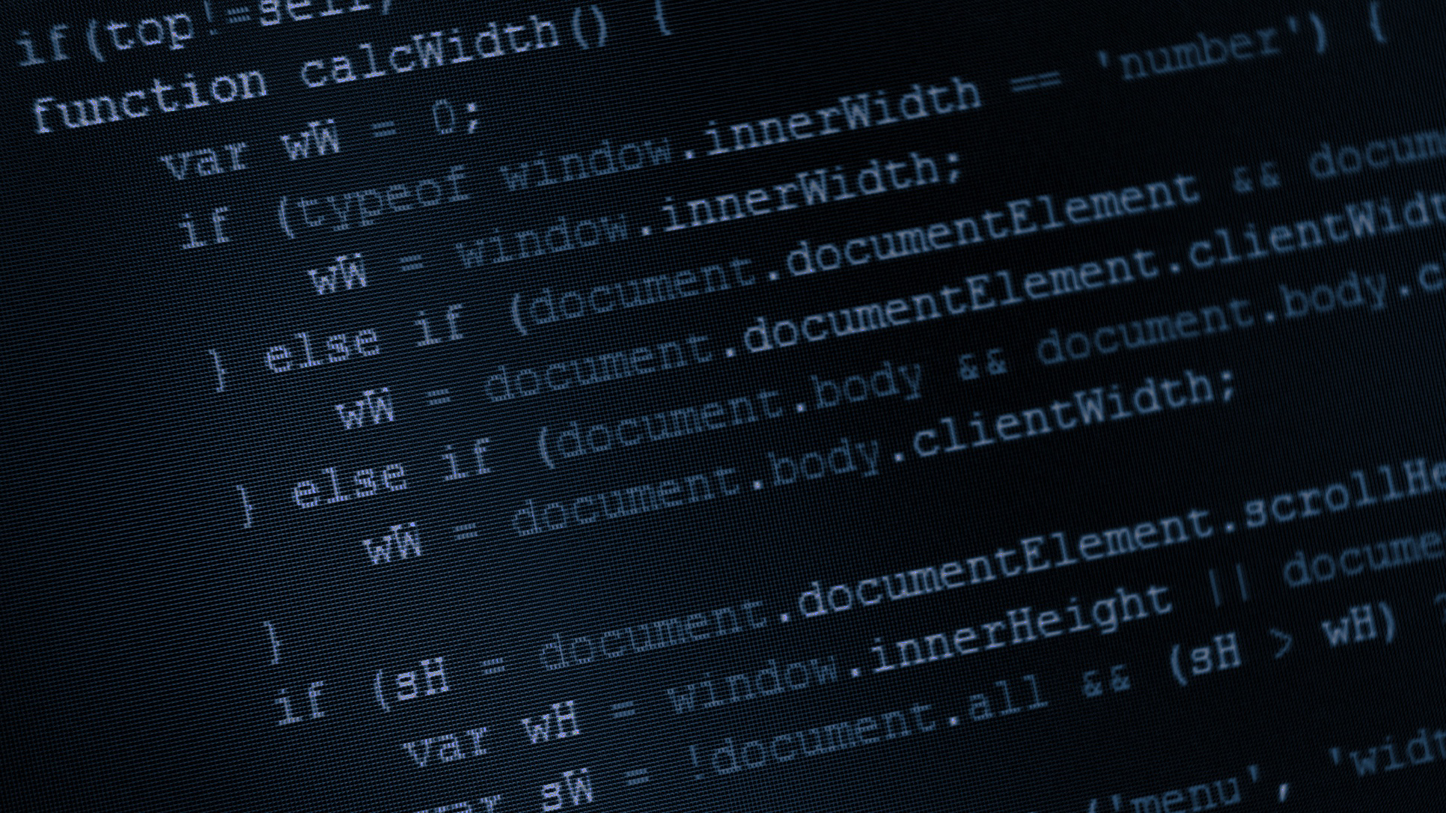
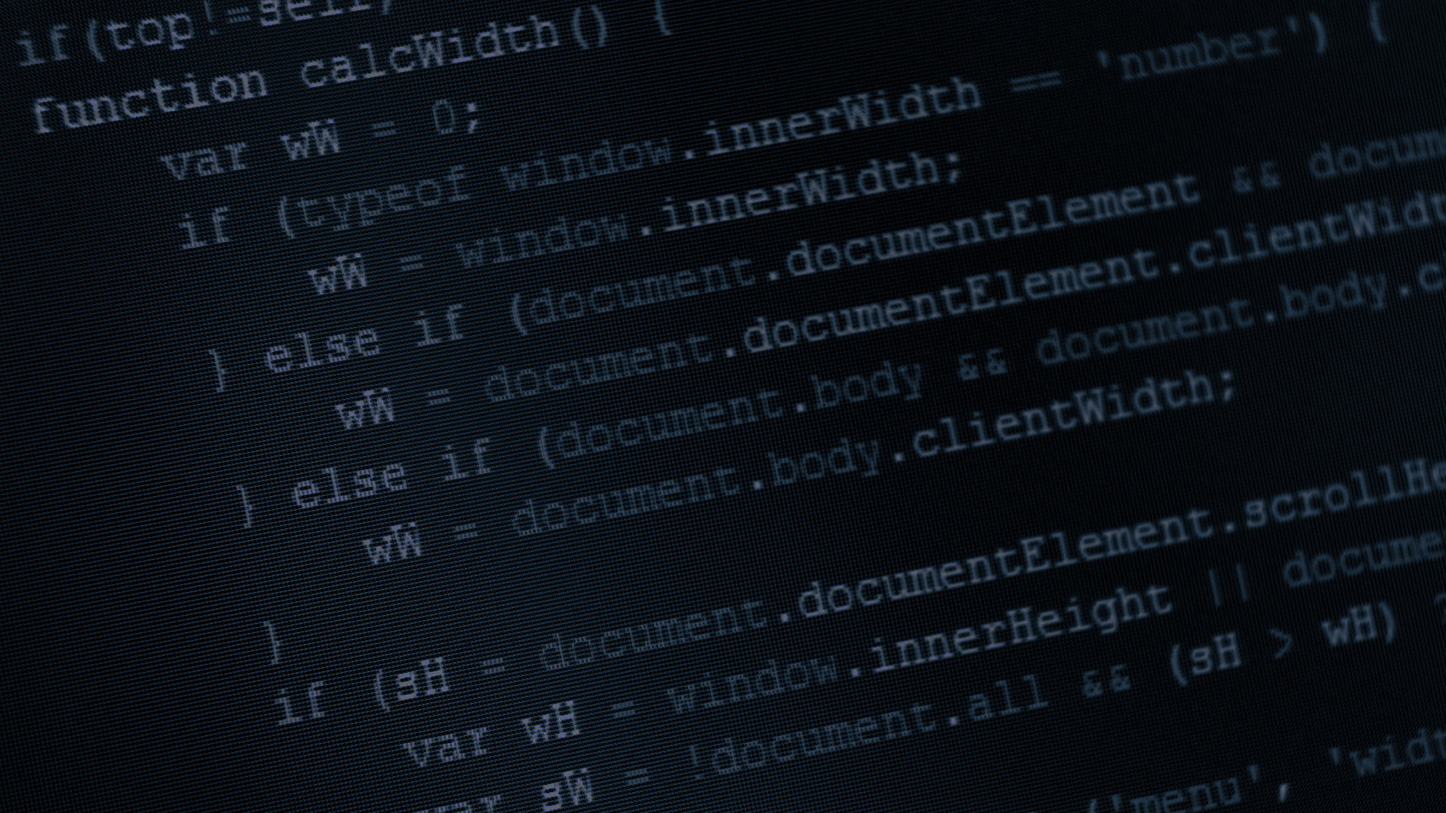
Еще темнее волпейпер и немного поправил CSS

diff --git a/css/grayscale.min.css b/css/grayscale.min.css
@@ -2,4 +2,4 @@
  * Start Bootstrap - Grayscale v3.3.7+1 (http://startbootstrap.com/template-overviews/grayscale)
  * Copyright 2013-2016 Start Bootstrap
  * Licensed under MIT (https://github.com/BlackrockDigital/startbootstrap/blob/gh-pages/LICENSE)
- */body,html{height:100%;width:100%}.navbar-custom,body{background-color:#000}.intro,body,html{width:100%}body{font-family:Lora,"Helvetica Neue",Helvetica,Arial,sans-serif;color:#fff;webkit-tap-highlight-color:rgba(255,255,255,.2)}.btn,.navbar-custom,h1,h2,h3,h4,h5,h6{text-transform:uppercase;font-family:Montserrat,"Helvetica Neue",Helvetica,Arial,sans-serif}h1,h2,h3,h4,h5,h6{margin:0 0 35px;font-weight:700;letter-spacing:1px}p{margin:0 0 25px;font-size:18px;line-height:1.5}@media (min-width:768px){p{margin:0 0 35px;font-size:20px;line-height:1.6}}a{color:#42DCA3;-webkit-transition:all .2s ease-in-out;-moz-transition:all .2s ease-in-out;transition:all .2s ease-in-out}a:focus,a:hover{text-decoration:none;color:#1d9b6c}.light{font-weight:400}.navbar-custom{margin-bottom:0;border-bottom:1px solid rgba(255,255,255,.3)}.navbar-custom .navbar-toggle{color:#fff;background-color:rgba(255,255,255,.2);font-size:12px}.navbar-custom .nav li a:active,.navbar-custom .nav li a:focus,.navbar-custom .nav li a:hover{background-color:transparent;outline:0}.navbar-custom .navbar-toggle:active,.navbar-custom .navbar-toggle:focus{outline:0}.navbar-custom .navbar-brand{font-weight:700}.navbar-custom .navbar-brand:focus{outline:0}.navbar-custom a{color:#fff}.navbar-custom .nav li a{-webkit-transition:background .3s ease-in-out;-moz-transition:background .3s ease-in-out;transition:background .3s ease-in-out}.navbar-custom .nav li a:hover{color:rgba(255,255,255,.8)}.navbar-custom .nav li.active{outline:0}.navbar-custom .nav li.active a{background-color:rgba(255,255,255,.3)}.navbar-custom .nav li.active a:hover{color:#fff}@media (min-width:768px){.navbar-custom{padding:20px 0;border-bottom:none;letter-spacing:1px;background:0 0;-webkit-transition:background .5s ease-in-out,padding .5s ease-in-out;-moz-transition:background .5s ease-in-out,padding .5s ease-in-out;transition:background .5s ease-in-out,padding .5s ease-in-out}.navbar-custom.top-nav-collapse{padding:0;background:#000;border-bottom:1px solid rgba(255,255,255,.3)}}.intro{display:table;height:auto;padding:100px 0;text-align:center;color:#fff;background:url(../img/intro-bg.jpg) bottom center no-repeat #000;-webkit-background-size:cover;-moz-background-size:cover;background-size:cover;-o-background-size:cover}.intro .intro-body{display:table-cell;vertical-align:middle}.intro .intro-body .brand-heading{font-size:40px}.intro .intro-body .intro-text{font-size:18px}@media (min-width:768px){.intro{height:100%;padding:0}.intro .intro-body .brand-heading{font-size:100px}.intro .intro-body .intro-text{font-size:26px}}.btn-circle{width:70px;height:70px;margin-top:15px;padding:7px 16px;border:2px solid #fff;border-radius:100%!important;font-size:40px;color:#fff;background:0 0;-webkit-transition:background .3s ease-in-out;-moz-transition:background .3s ease-in-out;transition:background .3s ease-in-out}.btn-circle:focus,.btn-circle:hover{outline:0;color:#fff;background:rgba(255,255,255,.1)}.btn-circle i.animated{-webkit-transition-property:-webkit-transform;-webkit-transition-duration:1s;-moz-transition-property:-moz-transform;-moz-transition-duration:1s}.btn-circle:hover i.animated{-webkit-animation-name:pulse;-moz-animation-name:pulse;-webkit-animation-duration:1.5s;-moz-animation-duration:1.5s;-webkit-animation-iteration-count:infinite;-moz-animation-iteration-count:infinite;-webkit-animation-timing-function:linear;-moz-animation-timing-function:linear}@-webkit-keyframes pulse{0%,100%{-webkit-transform:scale(1);transform:scale(1)}50%{-webkit-transform:scale(1.2);transform:scale(1.2)}}@-moz-keyframes pulse{0%,100%{-moz-transform:scale(1);transform:scale(1)}50%{-moz-transform:scale(1.2);transform:scale(1.2)}}.content-section{padding-top:100px}.download-section{width:100%;padding:50px 0;color:#fff;background:url(../img/downloads-bg.jpg) center center no-repeat #000;-webkit-background-size:cover;-moz-background-size:cover;background-size:cover;-o-background-size:cover}#map{width:100%;height:200px;margin-top:100px}@media (min-width:767px){.content-section{padding-top:250px}.download-section{padding:100px 0}#map{height:400px;margin-top:250px}}.btn{font-weight:400;-webkit-transition:all .3s ease-in-out;-moz-transition:all .3s ease-in-out;transition:all .3s ease-in-out;border-radius:0}.btn-default{border:1px solid #42DCA3;color:#42DCA3;background-color:transparent}.btn-default:focus,.btn-default:hover{border:1px solid #42DCA3;outline:0;color:#000;background-color:#42DCA3}ul.banner-social-buttons{margin-top:0}@media (max-width:1199px){ul.banner-social-buttons{margin-top:15px}}@media (max-width:767px){ul.banner-social-buttons li{display:block;margin-bottom:20px;padding:0}ul.banner-social-buttons li:last-child{margin-bottom:0}}footer{padding:50px 0}footer p{margin:0}::-moz-selection{text-shadow:none;background:#fcfcfc;background:rgba(255,255,255,.2)}::selection{text-shadow:none;background:#fcfcfc;background:rgba(255,255,255,.2)}img::selection{background:0 0}img::-moz-selection{background:0 0}
+ */body,html{height:100%;width:100%}.navbar-custom,body{background-color:#000}.intro,body,html{width:100%}body{font-family:Lora,"Helvetica Neue",Helvetica,Arial,sans-serif;color:#fff;webkit-tap-highlight-color:rgba(255,255,255,.2)}.btn,.navbar-custom,h1,h2,h3,h4,h5,h6{text-transform:uppercase;font-family:Montserrat,"Helvetica Neue",Helvetica,Arial,sans-serif}h1,h2,h3,h4,h5,h6{margin:0 0 35px;font-weight:700;letter-spacing:1px}p{margin:0 0 25px;font-size:18px;line-height:1.5}@media (min-width:768px){p{margin:0 0 35px;font-size:20px;line-height:1.6}}a{color:#42DCA3;-webkit-transition:all .2s ease-in-out;-moz-transition:all .2s ease-in-out;transition:all .2s ease-in-out}a:focus,a:hover{text-decoration:none;color:#1d9b6c}.light{font-weight:400}.navbar-custom{margin-bottom:0;border-bottom:1px solid rgba(255,255,255,.3)}.navbar-custom .navbar-toggle{color:#fff;background-color:rgba(255,255,255,.2);font-size:12px}.navbar-custom .nav li a:active,.navbar-custom .nav li a:focus,.navbar-custom .nav li a:hover{background-color:transparent;outline:0}.navbar-custom .navbar-toggle:active,.navbar-custom .navbar-toggle:focus{outline:0}.navbar-custom .navbar-brand{font-weight:700}.navbar-custom .navbar-brand:focus{outline:0}.navbar-custom a{color:#fff}.navbar-custom .nav li a{-webkit-transition:background .3s ease-in-out;-moz-transition:background .3s ease-in-out;transition:background .3s ease-in-out}.navbar-custom .nav li a:hover{color:rgba(255,255,255,.8)}.navbar-custom .nav li.active{outline:0}.navbar-custom .nav li.active a{background-color:rgba(255,255,255,.3)}.navbar-custom .nav li.active a:hover{color:#fff}@media (min-width:768px){.navbar-custom{padding:20px 0;border-bottom:none;letter-spacing:1px;background:0 0;-webkit-transition:background .5s ease-in-out,padding .5s ease-in-out;-moz-transition:background .5s ease-in-out,padding .5s ease-in-out;transition:background .5s ease-in-out,padding .5s ease-in-out}.navbar-custom.top-nav-collapse{padding:0;background:#000;border-bottom:1px solid rgba(255,255,255,.3)}}.intro{display:table;height:auto;padding:60px 0;text-align:center;color:#fff;background:url(../img/intro-bg.jpg) bottom center no-repeat #000;-webkit-background-size:cover;-moz-background-size:cover;background-size:cover;-o-background-size:cover}.intro .intro-body{display:table-cell;vertical-align:middle}.intro .intro-body .brand-heading{font-size:30px}.intro .intro-body .intro-text{font-size:18px}@media (min-width:768px){.intro{height:100%;padding:0}.intro .intro-body .brand-heading{font-size:70px}.intro .intro-body .intro-text{font-size:26px}}.btn-circle{width:70px;height:70px;margin-top:15px;padding:7px 16px;border:2px solid #fff;border-radius:100%!important;font-size:40px;color:#fff;background:0 0;-webkit-transition:background .3s ease-in-out;-moz-transition:background .3s ease-in-out;transition:background .3s ease-in-out}.btn-circle:focus,.btn-circle:hover{outline:0;color:#fff;background:rgba(255,255,255,.1)}.btn-circle i.animated{-webkit-transition-property:-webkit-transform;-webkit-transition-duration:1s;-moz-transition-property:-moz-transform;-moz-transition-duration:1s}.btn-circle:hover i.animated{-webkit-animation-name:pulse;-moz-animation-name:pulse;-webkit-animation-duration:1.5s;-moz-animation-duration:1.5s;-webkit-animation-iteration-count:infinite;-moz-animation-iteration-count:infinite;-webkit-animation-timing-function:linear;-moz-animation-timing-function:linear}@-webkit-keyframes pulse{0%,100%{-webkit-transform:scale(1);transform:scale(1)}50%{-webkit-transform:scale(1.2);transform:scale(1.2)}}@-moz-keyframes pulse{0%,100%{-moz-transform:scale(1);transform:scale(1)}50%{-moz-transform:scale(1.2);transform:scale(1.2)}}.content-section{padding-top:100px}.download-section{width:100%;padding:50px 0;color:#fff;background:url(../img/downloads-bg.jpg) center center no-repeat #000;-webkit-background-size:cover;-moz-background-size:cover;background-size:cover;-o-background-size:cover}#map{width:100%;height:200px;margin-top:100px}@media (min-width:767px){.content-section{padding-top:250px}.download-section{padding:60px 0}#map{height:400px;margin-top:250px}}.btn{font-weight:400;-webkit-transition:all .3s ease-in-out;-moz-transition:all .3s ease-in-out;transition:all .3s ease-in-out;border-radius:0}.btn-default{border:1px solid #42DCA3;color:#42DCA3;background-color:transparent}.btn-default:focus,.btn-default:hover{border:1px solid #42DCA3;outline:0;color:#000;background-color:#42DCA3}ul.banner-social-buttons{margin-top:0}@media (max-width:1199px){ul.banner-social-buttons{margin-top:15px}}@media (max-width:767px){ul.banner-social-buttons li{display:block;margin-bottom:20px;padding:0}ul.banner-social-buttons li:last-child{margin-bottom:0}}footer{padding:50px 0}footer p{margin:0}::-moz-selection{text-shadow:none;background:#fcfcfc;background:rgba(255,255,255,.2)}::selection{text-shadow:none;background:#fcfcfc;background:rgba(255,255,255,.2)}img::selection{background:0 0}img::-moz-selection{background:0 0}

diff --git a/index.html b/index.html
@@ -100,13 +100,14 @@
     <section id="contact" class="container content-section text-center">
         <div class="row">
             <div class="col-lg-8 col-lg-offset-2">
-                <h2>Ого, Вы все-таки доскроллили до этого места о_О //Надо быстро что-то сюда накидать</h2>
-                <p>Решили узнать о моих работах побольше? Пожалуйста. Если же хотите позвать меня пообщаться/написать что-нибудь/просто сказать "привет", то пишите на почту. Ссылок на соцсети не будет, извиняйте, не очень их люблю</p>
+                <h2>Ого, Вы все-таки доскроллили до этого места о_О</h2>
+                <h4><s>//Надо быстро что-то сюда накидать</s></h4>
+                <p>Решили узнать о моих работах побольше? Пожалуйста, ссылка на мой профиль гитахаба на кнопке ниже. Если же хотите позвать меня пообщаться/написать что-нибудь/просто сказать "привет", то пишите на почту. Ссылок на соцсети не будет, извиняйте, не очень их люблю</p>
                 <p><a href="mailto:ele638@gmail.com">Написать на почту</a>
                 </p>
                 <ul class="list-inline banner-social-buttons">  
                     <li>
-                        <a href="https://github.com/ele638" class="btn btn-default btn-lg"><i class="fa fa-github fa-fw"></i> <span class="network-name">Github</span></a>
+                        <a href="https://github.com/ele638" class="btn btn-default btn-lg"><i class="fa fa-github fa-fw"></i> <span class="network-name">GitХАБ</span></a>
                     </li>
                 </ul>
             </div>

diff --git a/css/grayscale.css b/css/grayscale.css
@@ -136,7 +136,7 @@ a:focus {
   vertical-align: middle;
 }
 .intro .intro-body .brand-heading {
-  font-size: 40px;
+  font-size: 30px;
 }
 .intro .intro-body .intro-text {
   font-size: 18px;
@@ -147,7 +147,7 @@ a:focus {
     padding: 0;
   }
   .intro .intro-body .brand-heading {
-    font-size: 100px;
+    font-size: 70px;
   }
   .intro .intro-body .intro-text {
     font-size: 26px;
@@ -241,7 +241,7 @@ a:focus {
     padding-top: 250px;
   }
   .download-section {
-    padding: 100px 0;
+    padding: 60px 0;
   }
   #map {
     height: 400px;
